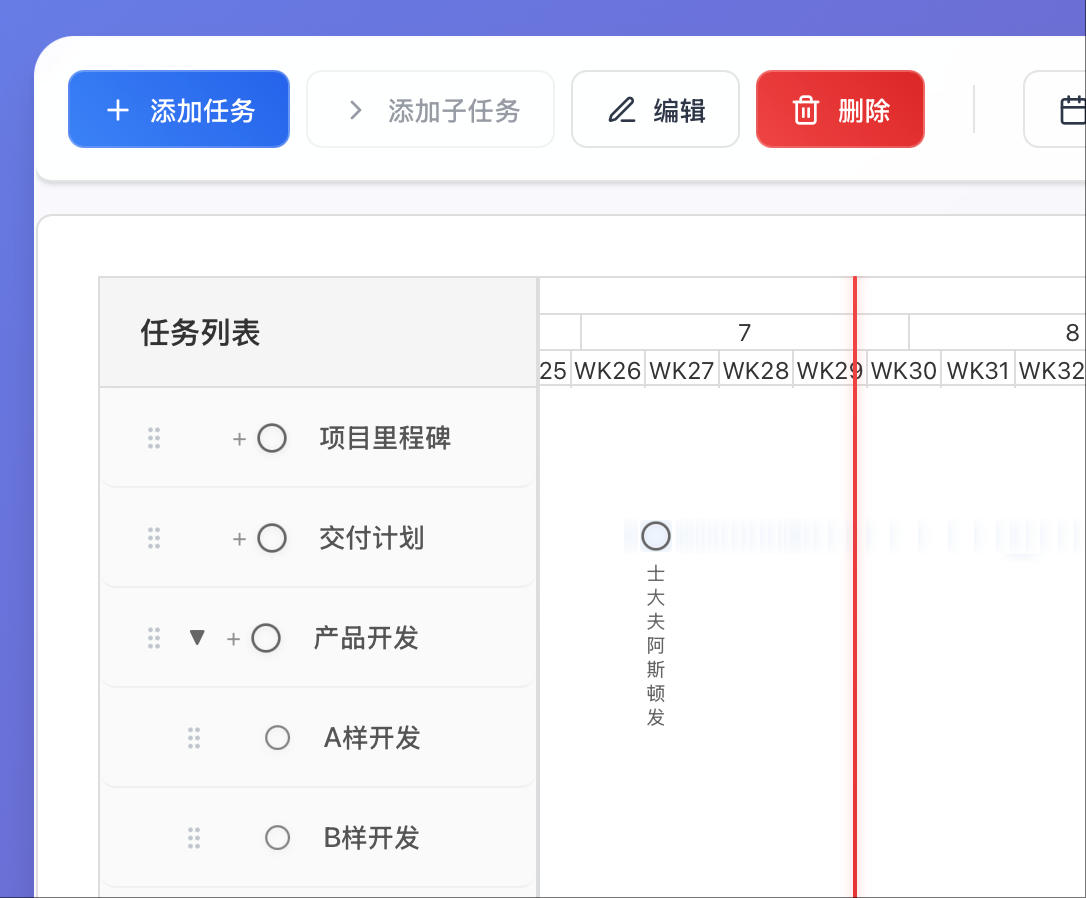
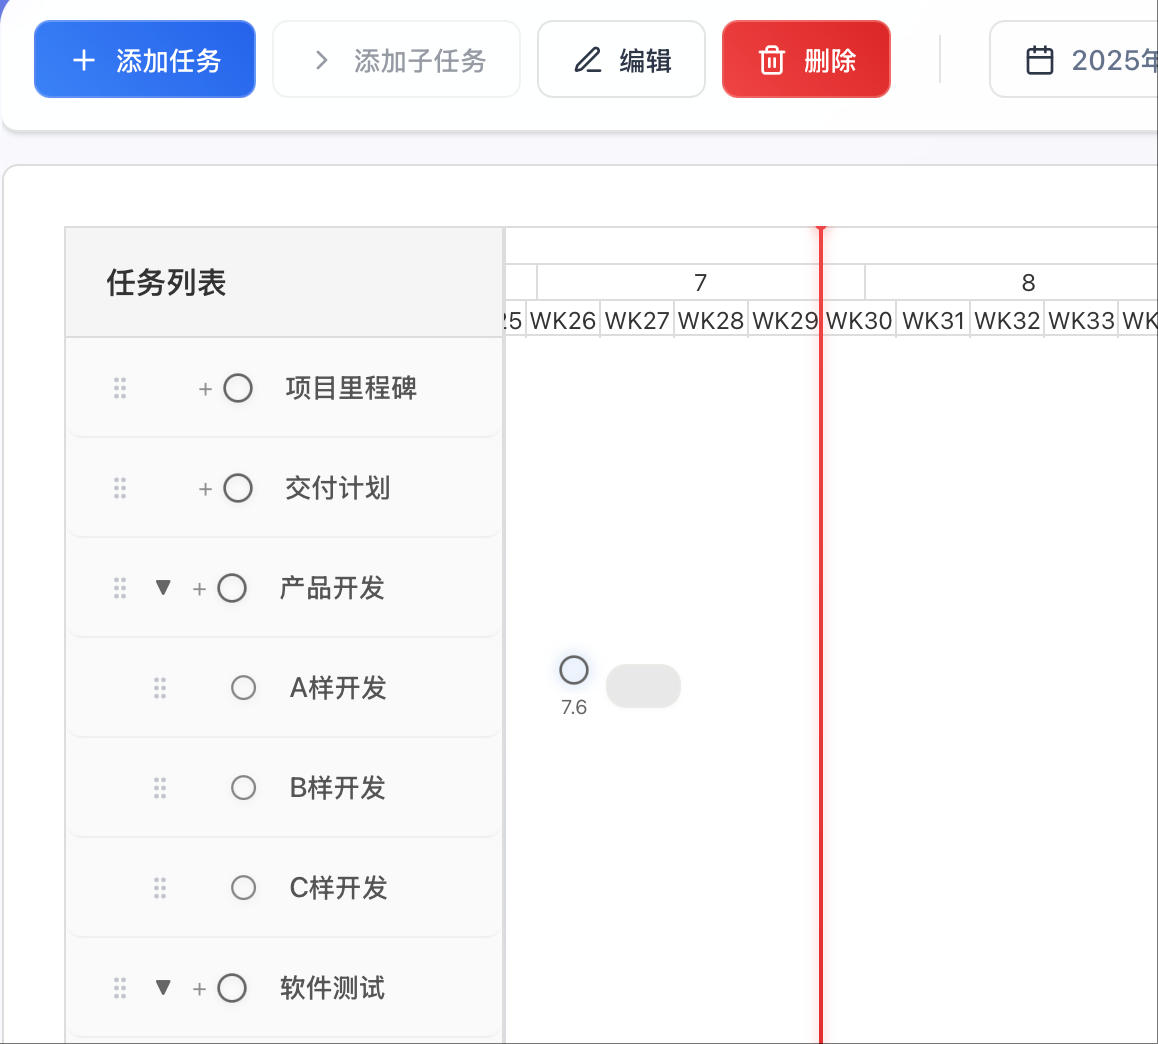
feat(gantt): 增强里程碑拖拽功能与坐标计算
- 在 GanttChart 和 GanttEventCoordinator 中引入里程碑拖拽操作，支持开始、更新和结束拖拽。
- 更新相关组件以使用新的 milestoneOperations 属性，确保里程碑拖拽时的实时更新和坐标一致性。
- 优化任务行的中心位置计算，确保里程碑节点与任务条对齐。
- 修复里程碑标签的日期更新逻辑，提升用户体验。

diff --git a/src/components/gantt/GanttEventCoordinator.tsx b/src/components/gantt/GanttEventCoordinator.tsx
@@ -30,6 +30,14 @@ interface GanttEventCoordinatorProps {
   resetHorizontalDrag: () => void;
   resetVerticalDrag: () => void;
   
+  // 里程碑拖拽方法 - 新增
+  milestoneOperations?: {
+    startMilestoneDrag: (milestone: MilestoneNode, clientX: number, clientY: number, containerElement: HTMLElement | null) => void;
+    updateMilestoneDragPosition: (clientX: number, clientY: number, allTasks: Task[], taskHeight: number, containerWidth?: number, containerHeight?: number) => void;
+    endMilestoneDrag: () => void;
+    getTaskRowIndex: (taskId: string) => number;
+  };
+  
   // 其他方法
   pixelToDate: (pixel: number) => Date;
   dateToPixel: (date: Date) => number;
@@ -80,6 +88,7 @@ const GanttEventCoordinator: React.FC<GanttEventCoordinatorProps> = ({
   updateDragMetrics,
   resetHorizontalDrag,
   resetVerticalDrag,
+  milestoneOperations,
   pixelToDate,
   dateToPixel,
   dateRange,
@@ -258,9 +267,22 @@ const GanttEventCoordinator: React.FC<GanttEventCoordinatorProps> = ({
   const handleMouseMoveCore = useCallback((e: MouseEvent) => {
     if (isDragging && containerRef.current) {
       const chartWidth = containerRef.current.clientWidth;
+      const containerHeight = containerRef.current.clientHeight;
       updateHorizontalDragPosition(e.clientX, chartWidth, LAYOUT_CONSTANTS.MIN_TASK_WIDTH);
+      
+      // 🔧 新增：里程碑拖拽时的实时更新
+      if (draggedTaskData?.type === 'milestone' && milestoneOperations) {
+        milestoneOperations.updateMilestoneDragPosition(
+          e.clientX, 
+          e.clientY, 
+          sortedChartTasks, 
+          taskHeight, 
+          chartWidth, 
+          containerHeight
+        );
+      }
     }
-  }, [isDragging, updateHorizontalDragPosition]);
+  }, [isDragging, updateHorizontalDragPosition, draggedTaskData, milestoneOperations, sortedChartTasks, taskHeight]);
 
   const handleMouseMove = useThrottledMouseMove(handleMouseMoveCore, [isDragging]);
 
@@ -290,8 +312,14 @@ const GanttEventCoordinator: React.FC<GanttEventCoordinatorProps> = ({
       
       ganttEvents.updateTaskDates(draggedTask, newStartDate, newEndDate);
     }
+    
+    // 🔧 新增：结束里程碑专用拖拽
+    if (draggedTaskData?.type === 'milestone' && milestoneOperations) {
+      milestoneOperations.endMilestoneDrag();
+    }
+    
     resetHorizontalDrag();
-  }, [tempDragPosition, draggedTask, draggedTaskData, dragType, pixelToDate, ganttEvents, resetHorizontalDrag]);
+  }, [tempDragPosition, draggedTask, draggedTaskData, dragType, pixelToDate, ganttEvents, resetHorizontalDrag, milestoneOperations]);
 
   // 添加水平拖拽事件监听器
   useEffect(() => {
@@ -337,11 +365,16 @@ const GanttEventCoordinator: React.FC<GanttEventCoordinatorProps> = ({
       return;
     }
 
+
     // 🔧 修复：里程碑坐标不一致问题
     // 问题：milestone.x 是存储的旧坐标，而渲染时使用 dateToPixel(milestone.date) 计算新坐标
     // 解决：使用基于日期重新计算的坐标，确保拖拽起始位置与渲染位置一致
     const currentRenderX = dateToPixel(milestone.date);
     
+    // 🔧 新增：启动里程碑专用拖拽系统
+    if (milestoneOperations) {
+      milestoneOperations.startMilestoneDrag(milestone, e.clientX, e.clientY, containerRef.current);
+    }
     
     // 计算正确的 pixelPerDay
     const totalDays = Math.ceil((dateRange.endDate.getTime() - dateRange.startDate.getTime()) / (24 * 60 * 60 * 1000));
@@ -368,7 +401,7 @@ const GanttEventCoordinator: React.FC<GanttEventCoordinatorProps> = ({
     
     updateDragMetrics(milestoneAsTask, safePixelPerDay);
     startHorizontalDrag(milestone.id, milestoneAsTask, e.clientX, e.clientY, 'move', containerRef.current);
-  }, [dateToPixel, dateRange, updateDragMetrics, startHorizontalDrag, containerRef]);
+  }, [dateToPixel, dateRange, updateDragMetrics, startHorizontalDrag, containerRef, milestoneOperations]);
 
   const handlers: EventHandlers = {
     handleCreateTask,

diff --git a/src/components/gantt/MilestoneNode.tsx b/src/components/gantt/MilestoneNode.tsx
@@ -56,28 +56,27 @@ const MilestoneNode: React.FC<MilestoneNodeProps> = ({
   
   // 计算要显示的标签：优先使用预览标签，否则使用原始标签
   const displayLabel = useMemo(() => {
-    if (isDragging && previewDate && milestone.label && hasDateInLabel(milestone.label)) {
-      return replaceDateInLabel(milestone.label, previewDate);
+    const hasDate = milestone.label ? hasDateInLabel(milestone.label) : false;
+    const shouldShowPreview = isDragging && previewDate && milestone.label && hasDate;
+    
+    
+    if (shouldShowPreview) {
+      const newLabel = replaceDateInLabel(milestone.label!, previewDate!);
+      return newLabel;
     }
+    
     return milestone.label;
-  }, [isDragging, previewDate, milestone.label]);
+  }, [isDragging, previewDate, milestone.label, milestone.id]);
   
   // 使用常量定义的节点大小
   const nodeSize = LAYOUT_CONSTANTS.MILESTONE_NODE_SIZE;
   
-  // 🔧 优化：统一中心点坐标系统的节点样式计算
+  // 🔧 修复：milestone.x 和 milestone.y 已经是渲染位置（左上角），不需要再次转换
   const nodeStyle = useMemo(() => {
     // 防止 NaN 值导致样式错误
-    const safeCenterX = isNaN(milestone.x || 0) ? 0 : (milestone.x || 0);
-    const safeCenterY = isNaN(milestone.y || 0) ? 0 : (milestone.y || 0);
+    const safeRenderLeft = isNaN(milestone.x || 0) ? 0 : (milestone.x || 0);
+    const safeRenderTop = isNaN(milestone.y || 0) ? 0 : (milestone.y || 0);
     
-    // 中心点坐标转换为渲染用的左上角位置
-    const renderLeft = safeCenterX - nodeSize / 2;
-    const renderTop = safeCenterY - nodeSize / 2;
-    
-    // 再次检查渲染位置，确保不是NaN
-    const safeRenderLeft = isNaN(renderLeft) ? 0 : renderLeft;
-    const safeRenderTop = isNaN(renderTop) ? 0 : renderTop;
     
     return {
       position: 'absolute' as const,

diff --git a/src/utils/ganttUtils.ts b/src/utils/ganttUtils.ts
@@ -226,18 +226,14 @@ const formatDateByOriginalMatch = (date: Date, originalMatch: string): string =>
   const month = date.getMonth() + 1;
   const day = date.getDate();
 
-  // 检测原始匹配的格式特征
-  if (originalMatch.includes('/') || originalMatch.includes('-')) {
-    // YYYY/M/D 或 YYYY-M-D 格式
-    const separator = originalMatch.includes('/') ? '/' : '-';
-    return `${year}${separator}${month}${separator}${day}`;
-  } else if (originalMatch.includes('.')) {
+  // 🔧 修复：优先检测M.D格式，确保里程碑标签正确更新
+  if (originalMatch.includes('.')) {
     // M.D 格式，保持原始的零填充风格
     const parts = originalMatch.split('.');
     const originalMonth = parts[0];
     const originalDay = parts[1];
     
-    // 如果原始格式有零填充，保持零填充
+    // 如果原始格式有零填充，保持零填充；否则使用简洁格式
     const monthStr = originalMonth.length === 2 && originalMonth.startsWith('0') 
       ? month.toString().padStart(2, '0')
       : month.toString();
@@ -246,6 +242,10 @@ const formatDateByOriginalMatch = (date: Date, originalMatch: string): string =>
       : day.toString();
     
     return `${monthStr}.${dayStr}`;
+  } else if (originalMatch.includes('/') || originalMatch.includes('-')) {
+    // YYYY/M/D 或 YYYY-M-D 格式
+    const separator = originalMatch.includes('/') ? '/' : '-';
+    return `${year}${separator}${month}${separator}${day}`;
   }
   
   // 默认返回 M.D 格式

diff --git a/src/components/gantt/ganttStyles.ts b/src/components/gantt/ganttStyles.ts
@@ -270,9 +270,10 @@ export const layoutUtils = {
   
   // 计算任务在容器中的Y位置 - 确保垂直居中对齐
   calculateTaskY: (rowIndex: number, taskHeight: number): number => {
-    const rowStartY = rowIndex * layoutUtils.calculateRowHeight(taskHeight);
+    const rowHeight = layoutUtils.calculateRowHeight(taskHeight);
+    const rowStartY = rowIndex * rowHeight;
     // 计算行内垂直居中位置：行间距的一半作为上边距
-    const verticalPadding = (layoutUtils.calculateRowHeight(taskHeight) - taskHeight) / 2;
+    const verticalPadding = (rowHeight - taskHeight) / 2;
     return rowStartY + verticalPadding;
   },
   
@@ -280,6 +281,12 @@ export const layoutUtils = {
   calculateMilestoneY: (rowIndex: number, taskHeight: number): number => {
     // 返回与任务条相同的顶部Y坐标，确保定位一致性
     return layoutUtils.calculateTaskY(rowIndex, taskHeight);
+  },
+  
+  // 计算任务行的垂直中心位置（用于里程碑节点对齐）
+  calculateRowCenterY: (rowIndex: number, taskHeight: number): number => {
+    const taskY = layoutUtils.calculateTaskY(rowIndex, taskHeight);
+    return taskY + taskHeight / 2;
   },
   
   // 计算元素在行内的垂直居中位置

diff --git a/src/hooks/gantt/useMilestoneDrag.ts b/src/hooks/gantt/useMilestoneDrag.ts
@@ -117,6 +117,8 @@ export const useMilestoneDrag = (callbacks: MilestoneDragCallbacks): MilestoneDr
     containerHeight?: number
   ) => {
     const dragState = dragStateRef.current;
+    
+    
     if (!dragState.isDragging || !dragState.draggedMilestone) return;
 
     const bounds = containerBoundsRef.current;
@@ -186,14 +188,11 @@ export const useMilestoneDrag = (callbacks: MilestoneDragCallbacks): MilestoneDr
     };
 
     // 智能更新标签中的日期
-    if (currentMilestone?.label) {
-      const hasDate = hasDateInLabel(currentMilestone.label);
-      
-      if (hasDate) {
-        const newLabel = replaceDateInLabel(currentMilestone.label, tempMilestone.date);
-        updates.label = newLabel;
-      }
+    if (currentMilestone?.label && hasDateInLabel(currentMilestone.label)) {
+      const newLabel = replaceDateInLabel(currentMilestone.label, tempMilestone.date);
+      updates.label = newLabel;
     }
+    
     onMilestoneUpdate(dragState.draggedMilestone, updates);
 
     // 触发附着变化回调

diff --git a/src/components/GanttChart.tsx b/src/components/GanttChart.tsx
@@ -80,6 +80,15 @@ const GanttChart: React.FC<GanttChartProps> = ({
           updateDragMetrics={stateData.updateDragMetrics}
           resetHorizontalDrag={stateData.resetHorizontalDrag}
           resetVerticalDrag={stateData.resetVerticalDrag}
+          milestoneOperations={{
+            startMilestoneDrag: stateData.milestoneManager.startMilestoneDrag,
+            updateMilestoneDragPosition: stateData.milestoneManager.updateMilestoneDragPosition,
+            endMilestoneDrag: stateData.milestoneManager.endMilestoneDrag,
+            getTaskRowIndex: (taskId: string) => {
+              const task = stateData.chartTasks.find(t => t.id === taskId);
+              return task ? stateData.chartTasks.indexOf(task) : 0;
+            }
+          }}
           pixelToDate={stateData.pixelToDate}
           dateToPixel={stateData.dateToPixel}
           dateRange={stateData.dateRange}

diff --git a/src/utils/coordinateUtils.ts b/src/utils/coordinateUtils.ts
@@ -61,14 +61,14 @@ export class CoordinateUtils {
    */
   calculateMilestonePosition(milestone: MilestoneNode, rowIndex: number, nodeSize: number = LAYOUT_CONSTANTS.MILESTONE_NODE_SIZE): MilestonePosition {
     const centerX = this.dateToPixel(milestone.date);
-    const topY = layoutUtils.calculateMilestoneY(rowIndex, this.taskHeight); // 现在返回顶部Y坐标
     
-    // 计算节点中心Y坐标（用于显示和计算）
-    const centerY = topY + this.taskHeight / 2;
+    // 使用新的行中心计算函数，确保里程碑节点中心与任务条中心完全对齐
+    const centerY = layoutUtils.calculateRowCenterY(rowIndex, this.taskHeight);
     
     // 计算节点左上角位置（用于渲染）
     const x = centerX - nodeSize / 2;
     const y = centerY - nodeSize / 2;
+
 
     return {
       x,

diff --git a/src/components/gantt/TaskBarsContainer.tsx b/src/components/gantt/TaskBarsContainer.tsx
@@ -147,8 +147,14 @@ const TaskBarsContainer: React.FC<TaskBarsContainerProps> = ({
         
         // 计算预览日期（如果正在拖拽）
         let previewDate: Date | undefined;
+        
         if (isBeingDragged && tempDragPosition && pixelToDate) {
           previewDate = pixelToDate(tempDragPosition.x);
+        } else if (isBeingDragged && pixelToDate) {
+          // 🔧 修复：里程碑拖拽时，如果没有tempDragPosition，尝试从里程碑当前位置计算previewDate
+          if (milestone.x !== undefined) {
+            previewDate = pixelToDate(milestone.x);
+          }
         }
         
         // 更新里程碑的位置
